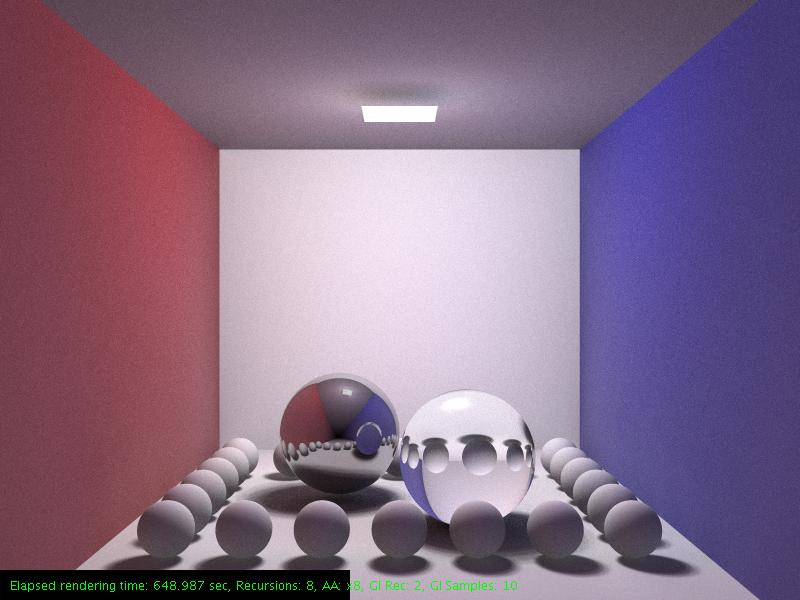
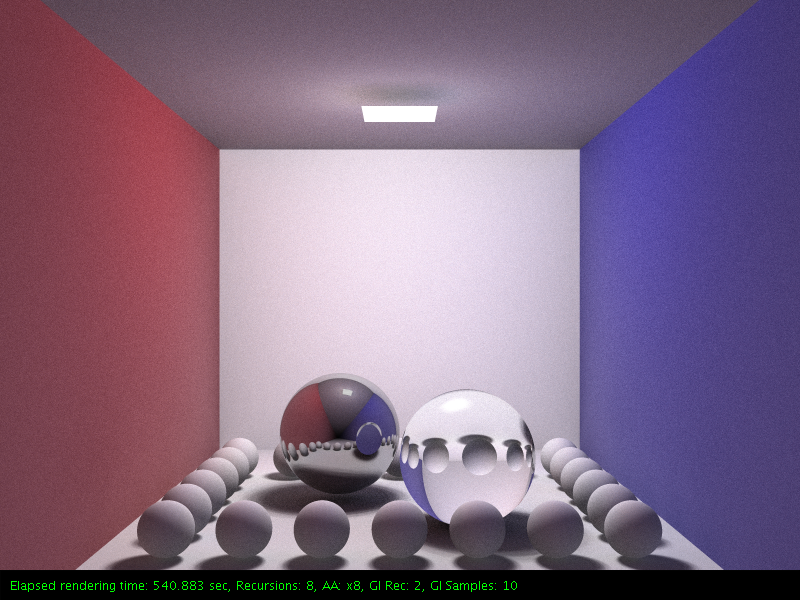
Renering a little faster with 64 Threads

Changed region(s): [[0.4375, 0.9, 1.0, 1.0], [0.4688, 0.81, 0.5, 0.84], [0.3438, 0.84, 0.375, 0.87]]

diff --git a/VCG_Raytracer/src/raytracer/Raytracer.java b/VCG_Raytracer/src/raytracer/Raytracer.java
@@ -40,6 +40,12 @@ public class Raytracer {
     public static int ANTI_ALIASING_HIGH = 8;
     public static int ANTI_ALIASING_INSANE = 16;
 
+    public static int MULTI_THREADING_NONE = 0;
+    public static int MULTI_THREADING_LOW = 2;
+    public static int MULTI_THREADING_MEDIUM = 4;
+    public static int MULTI_THREADING_HIGH = 8;
+    public static int MULTI_THREADING_INSANE = 16;
+
     private static float GI_FACTOR = (float) (1f / Math.PI);
 
     private BufferedImage mBufferedImage;
@@ -57,6 +63,8 @@ public class Raytracer {
     private float mAntiAliasingCounter;
     private int mAntiAliasingSamples;
 
+    private int mMultiThreadingLevel;
+
     private boolean mUseGI;
     private float mPDFFactor;
 
@@ -66,7 +74,7 @@ public class Raytracer {
     private boolean mDebug;
     private long tStart;
 
-    public Raytracer(Scene scene, Window renderWindow, int recursions, boolean useGi, int giLevel, int giSamples, RgbColor backColor, RgbColor ambientLight, int antiAliasingSamples, boolean debugOn){
+    public Raytracer(Scene scene, Window renderWindow, int recursions, boolean useGi, int giLevel, int giSamples, RgbColor backColor, RgbColor ambientLight, int antiAliasingSamples, int multithreading, boolean debugOn){
         Log.print(this, "Init");
         mMaxRecursions = recursions;
         mUseGI = useGi;
@@ -84,6 +92,7 @@ public class Raytracer {
         mDebug = debugOn;
         tStart = System.currentTimeMillis();
         mAntiAliasingSamples = antiAliasingSamples;
+        mMultiThreadingLevel = multithreading;
 
         mPDFFactor = (float) (1f / (2f* Math.PI));
     }
@@ -110,7 +119,7 @@ public class Raytracer {
         Log.print(this, "Start rendering");
 
         MultiThreader rayMultiThreader = new MultiThreader(this);
-        rayMultiThreader.startMultiThreading(4);
+        rayMultiThreader.startMultiThreading(mMultiThreadingLevel);
     }
 
     public RgbColor calculateAntiAliasedColor(int y, int x) {

diff --git a/VCG_Raytracer/src/Main.java b/VCG_Raytracer/src/Main.java
@@ -99,6 +99,8 @@ public class Main {
     static boolean SHOW_SECONDARY_RAYS = false;
     static boolean SHOW_PARAM_LABEL = true;
 
+    static int MULTI_THREADING = Raytracer.MULTI_THREADING_HIGH;
+
     // Initial method. This is where the show begins.
     public static void main(String[] args){
         //importObject("models/Scooter-smgrps.obj");
@@ -245,7 +247,7 @@ public class Main {
     }
 
     private static void raytraceScene(Window renderWindow, Scene renderScene){
-        Raytracer raytracer = new Raytracer(renderScene, renderWindow, RECURSIONS, USE_GI, GI_LEVEL, GI_SAMPLES, BACKGROUND_COLOR, AMBIENT_LIGHT, ANTI_ALIASING, SHOW_PARAM_LABEL);
+        Raytracer raytracer = new Raytracer(renderScene, renderWindow, RECURSIONS, USE_GI, GI_LEVEL, GI_SAMPLES, BACKGROUND_COLOR, AMBIENT_LIGHT, ANTI_ALIASING, MULTI_THREADING, SHOW_PARAM_LABEL);
 
         raytracer.renderScene();
     }

diff --git a/VCG_Raytracer/src/ui/Window.java b/VCG_Raytracer/src/ui/Window.java
@@ -55,7 +55,7 @@ public class Window {
     private void setOutputLabel(String text, int recursions, int antiAliasing, int giRecursions, int giSamples){
         Graphics graphic = mBufferedImage.getGraphics();
         graphic.setColor(Color.black);
-        graphic.fill3DRect(0,mHeight - 30,350,mHeight,true);
+        graphic.fill3DRect(0,mHeight - 30,mWidth,mHeight,true);
         graphic.setColor(Color.green);
         graphic.drawString("Elapsed rendering time: " + text + " sec, Recursions: " + recursions + ", AA: x" + antiAliasing*2 + ", GI Rec: " + giRecursions + ", GI Samples: " + giSamples, 10, mHeight - 10);
 
